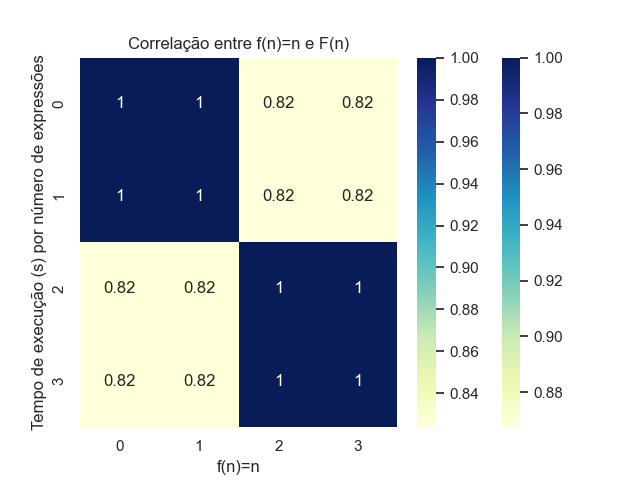
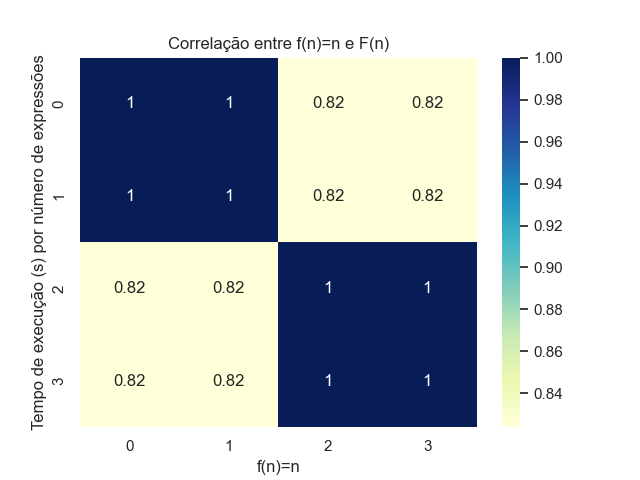
Added runtime analysis and updated README

diff --git a/runtime_analysis/runtime_data_analysis.py b/runtime_analysis/runtime_data_analysis.py
@@ -1,3 +1,4 @@
+from re import S
 import pandas as pd
 import seaborn as sns
 import numpy as np
@@ -82,6 +83,8 @@ sns_plot.set_ylabel("Tempo médio de execução (s)")
 sns_plot.legend(title="Número de expressões")
 # save plot
 sns_plot.figure.savefig("avg_runtime_n_vars_log_scatter.png")
+
+sns_plot.clear()
 
 # plot correlation coefficient between f(x) and F(x)
 sns_plot = sns.heatmap(corr, annot=True, cmap="YlGnBu")

diff --git a/Rascunho.md b/Rascunho.md
@@ -6,11 +6,11 @@
 
 A lógica proposicional descreve comportamentos lógicos pelas regras da álgebra booleana, analisar, simular e otimizar sentenças lógicas significa poder simular essas operações a nível lógico para os circuitos que implementam o comportamento lógico dessas expressões.
 Nesse trabalho foram implementados e integrados analisadores léxico, sintático e semântico bem como um otimizador de expressões lógicas num programa de interface de linha de comando, foi também analisada a complexidade de tempo do método de análise semântica das expressões baseada em seu tempo médio de execução em relação a entradas controladas geradas de forma procedural.
-Obteve-se como resultado um programa capaz de receber expressões como entrada que são analisadas e otimizadas, além de um relatório de erros (se houverem) e a tabela-verdade da expressão. Concluiu-se também que a complexidade de tempo do algoritmo de análise semântica implementado baseado em árvore sintática abstrata é _O(2^n)_ sendo n o número de variáveis da expressão a ser analisada. 
+Obteve-se como resultado um programa capaz de receber expressões como entrada que são analisadas e otimizadas, além de um relatório de erros (se houverem) e a tabela verdade da expressão. Concluiu-se também que a complexidade de tempo do algoritmo de análise semântica implementado baseado em árvore sintática abstrata é _O(2^n)_ sendo n o número de variáveis da expressão a ser analisada.
 
 ## Introdução
 
-Lógica proposicional é uma forma de descrever comportamentos lógicos obedecendo a álgebra booleana e está presente nos dias de hoje em quase todo aparelho eletrônico, ser capaz de analisar, simular e otimizar sentenças lógicas significa ser capaz de realizar esses mesmos processos nos circuitos digitais que implementam a lógica da expressão. 
+Lógica proposicional é uma forma de descrever comportamentos lógicos obedecendo à álgebra booleana e está presente nos dias de hoje em quase todo aparelho eletrônico, ser capaz de analisar, simular e otimizar sentenças lógicas significa ser capaz de realizar esses mesmos processos nos circuitos digitais que implementam a lógica da expressão. 
 Para o desenvolvimento desses processos foram implementadas as estruturas de máquina de estados, pilha, fila, e árvore sintática abstrata, além de uma interface de linha de comando para a análise de expressões na linguagem de programação Python.
 Para a análise da complexidade de tempo foram escritos scripts Python para geração de casos de teste e monitoramento do tempo de execução em múltiplos experimentos, além de scripts para plotagem de gráficos e computação de correlações com funções assintóticas.
 
@@ -18,7 +18,7 @@ Para a análise da complexidade de tempo foram escritos scripts Python para gera
 
 A álgebra booleana é um sistema algébrico que busca descrever problemas lógicos a partir de dois possíveis valores: verdadeiro ou falso, e três operações fundamentais, duas binárias (que operam com 2 valores): disjunção (_and_) e conjunção (_or_), e uma unária: negação (_not_), este conjunto de regras é a fundação da lógica proposicional, que é aplicada para definir o comportamento lógico de um conjunto de entradas.
 
-Uma expressão lógica é um conjunto de conectivos (operações) e literais (variáveis) que seja válido na álgebra booleana e que possua um valor-verdade associado, uma expressão pode ser dividida em subconjuntos que respeitam a precedência de operações de seus conectivos, todos os subconjuntos possuem um valor-verdade associado, o componente elementar de uma expressão lógica é o literal que não possui conectivos. Valor-verdade é a valoração binária (verdadeiro ou falso) que uma expressão lógica apresenta, o conjunto de todos os valores-verdade de uma expressão lógica é chamada tabela verdade.
+Uma expressão lógica é um conjunto de conectivos (operações) e literais (variáveis) que seja válido na álgebra booleana e que possua um valor verdade associado, uma expressão pode ser dividida em subconjuntos que respeitam a precedência de operações de seus conectivos, todos os subconjuntos possuem um valor verdade associado, o componente elementar de uma expressão lógica é o literal que não possui conectivos. Valor verdade é a valoração binária (verdadeiro ou falso) que uma expressão lógica apresenta, o conjunto de todos os valores verdade de uma expressão lógica é chamada tabela verdade.
 
 | A | B | ~A | ~B | A ∧ B | A ∨ B |
 |:-:|:-:|:-:|:-:|:-:|:-:|
@@ -29,25 +29,25 @@ Uma expressão lógica é um conjunto de conectivos (operações) e literais (va
 
 #### Desenvolvimento e integração do analisador
 
-Para a implementação do processo de análise de expressões lógicas, que consiste de três etapas, foi escrito um programa na linguagem de programação Python responsável por interfacear a entrada das proposições com o analisador, na analise léxica uma sequência de caracteres representando a expressão é consumida por uma máquina de estados que descreve as características léxicas da linguagem proposta para a representação das sentenças lógicas, para este fim, foi realizada a implementaçao máquina de estados descrita em [LEXF: Um Analisador Lexical Eficiente e Multipropósito](https://eventos.utfpr.edu.br//sicite/sicite2020/paper/view/7353) que tem como resultado a _tokenização_ da expressão. O processo de tokenização trata de atribuir um identificador (_token_) a cada elemento da expressão que esteja de acordo com as regras léxicas, cada identificador representa um tipo de operando ou operações, nesta implementação o _lexicon_ (conjunto de _tokens_ possíveis) é: _PAR_ (parêntese), _NEG_ (negação), _BIN_ (valor binário), _VAR_ (variável), _DISJ_ (disjunção), _CONJ_ (conjunção), _COND_ (condicional), _BICON_ (bicondicional).
+Para a implementação do processo de análise de expressões lógicas, que consiste de três etapas, foi escrito um programa na linguagem de programação Python responsável por interfacear a entrada das proposições com o analisador, na análise léxica uma sequência de caracteres representando a expressão é consumida por uma máquina de estados que descreve as características léxicas da linguagem proposta para a representação das sentenças lógicas, para este fim, foi realizada a implementação da máquina de estados descrita em [LEXF: Um Analisador Lexical Eficiente e Multipropósito](https://eventos.utfpr.edu.br//sicite/sicite2020/paper/view/7353) que tem como resultado a _tokenização_ da expressão. O processo de tokenização trata de atribuir um identificador (_token_) a cada elemento da expressão que esteja de acordo com as regras léxicas, cada identificador representa um tipo de operando ou operação, nesta implementação o _lexicon_ (conjunto de _tokens_ possíveis) é: _PAR_ (parêntese), _NEG_ (negação), _BIN_ (valor binário), _VAR_ (variável), _DISJ_ (disjunção), _CONJ_ (conjunção), _COND_ (condicional), _BICON_ (bicondicional).
 
 ![Autômato Base](images/automato_base.png)
 
-Na etapa seguinte é analisada a estrutura sintática da expressão, utilizando-se do algoritmo _shunting yard_ para a verificação da completude da expressão e de suas subdivisões e converter a notação in-fixa (convencional) em notação polonesa reversa de forma a respeitar precedência de operações da álgebra de _Boole_. _Shunting yard_ é um método criado por Edsger Dijkstra para a análise de expressões lógico-matemáticas em notação in-fixa que pode gerar uma cadeia de caracteres de notação pós-fixa (notação polonesa reversa), onde os operadores sucedem seus operandos e tem como vantagem o fato de não necessitar de parênteses para expressar a precedência de operações, facilitando a computação das operações atômicas, o algoritmo também é capaz de gerar uma árvore sintática abstrata, uma estrutura de árvore utilizada para representar a expressão dividindo-a em menores operações até que o nó represente uma variável ou valor binário, ao mesmo passo que geramos a notação pós-fixa verificamos se as operações entre os elementos são válidas, checando os tokens de cada sub-expressão, nesse momento seria possível a valoração da operação, unindo análise sintática e semântica no mesmo processo, no entanto, optou-se, por motivos didáticos, a separação explícita destes processos.
+Na etapa seguinte é analisada a estrutura sintática da expressão, utilizando-se do algoritmo _shunting yard_ para a verificação da completude da expressão e de suas subdivisões e para converter a notação in-fixa (convencional) em notação polonesa reversa, de forma a respeitar precedência de operações da álgebra de _Boole_. _Shunting yard_ é um método criado por Edsger Dijkstra para a análise de expressões lógico-matemáticas em notação in-fixa que pode gerar uma cadeia de caracteres de notação pós-fixa (notação polonesa reversa), onde os operadores sucedem seus operandos e tem como vantagem o fato de não necessitar de parênteses para expressar a precedência de operações, facilitando a computação das operações atômicas, o algoritmo também é capaz de gerar uma árvore sintática abstrata, uma estrutura de árvore utilizada para representar a expressão dividindo-a em menores operações até que o nó represente uma variável ou valor binário, ao mesmo passo que geramos a notação pós-fixa verificamos se as operações entre os elementos são válidas, checando os _tokens_ de cada expressão, nesse momento seria possível a valoração da operação, unindo análise sintática e semântica no mesmo processo, no entanto, optou-se, por motivos didáticos, a separação explícita destes processos.
 
 ![Notação polonesa reversa](images/npr.png)
 
- Na última etapa da análise é realizada a valoração de cada um de seus literais numa implementação  recursiva de uma árvore sintática abstrata, construída de forma que os nós-folha representem os componentes elementares da expressão, cada nó intermediário represente a valoração dos conectivos e o nó raiz represente o valor-verdade da expressão completa, a valoração ocorre de baixo para cima, ou seja, os primeiros nós a serem valorados são os nós-folha, precedidos por seus conectivos de forma recursiva até a valoração do nó raiz. Essa implementação é obtida por meio de polimorfismo, todas as classes representam um token, que por sua vez, representa uma operação ou operando, todas as classes derivam de uma classe virtual Expression, que representa o maior nível de abstração desses elementos, de Expression derivam-se as classes Operand e Operation, de Operand, derivam-se as classes Binary e Variable, que por sua vez, carregam valores associados. De Operation derivam-se UnaryOperation e BinaryOperation, De Unary Operation deriva-se apenas Not, que carrega a função de negação na valoração da árvore, De BinaryOperation derivam-se as classes correspondentes a seus atributos lógicos: And, Or, Conditional e Binconditional. Como interface para essas classes foi escrita a classe SemanticAnalysis, responsável por instanciar corretamente a estrutra da árvore de acordo com a entrada e facilitar a saída dos dados de forma compreensível, em forma de tabela.
+ Na última etapa da análise é realizada a valoração de cada um de seus literais numa implementação  recursiva de uma árvore sintática abstrata, construída de forma com que os nós folha representem os componentes elementares da expressão, cada nó intermediário represente a valoração dos conectivos e o nó raiz represente o valor verdade da expressão completa, a valoração ocorre de baixo para cima, ou seja, os primeiros nós a serem valorados são os nós folha, precedidos por seus conectivos de forma recursiva até a valoração do nó raiz. Essa implementação é obtida por meio de polimorfismo, todas as classes representam um _token_, que por sua vez, representa uma operação ou operando, todas as classes derivam de uma classe virtual Expression, que representa o maior nível de abstração desses elementos, de Expression derivam-se as classes Operand e Operation, de Operand, derivam-se as classes Binary e Variable, que por sua vez, carregam valores associados. De Operation derivam-se UnaryOperation e BinaryOperation, de Unary Operation deriva-se apenas Not, que carrega a função de negação na valoração da árvore, de BinaryOperation derivam-se as classes correspondentes a seus atributos lógicos: And, Or, Conditional e Biconditional. Como interface para essas classes, foi escrita a classe SemanticAnalysis, responsável por instanciar corretamente a estrutura da árvore de acordo com a entrada e facilitar a saída dos dados de modo compreensível, em forma de tabela.
 
 ![Diagrama de classes](images/diagrama_de_classes.png)
 
-Como resultado dessa análise obtem-se os _tokens_ léxicos estruturados em notação polonesa reversa e por fim a tabela verdade da expressão completa, com a qual podemos verificar os termos de satisfabilidade da expressão. É possível também valorar a tabela verdade de qualquer expressão intermediária a partir da valoração da sub-árvore que a representa.
+Como resultado dessa análise obtêm-se os _tokens_ léxicos estruturados em notação polonesa reversa e por fim a tabela verdade da expressão completa, com a qual podemos verificar os termos de satisfabilidade da expressão. É possível também valorar a tabela verdade de qualquer expressão intermediária a partir da valoração da subárvore que a representa.
 
 ![Árvore sintática abstrata](images/AST.png)
 
 #### Interface de linha de comando
 
-Como parte da integração dos analisadores, foi criado o programa principal _src/main.py_ que implementa uma interface de linha de comando, recebendo como entrada uma expressão a ser analisada ou o caminho de um arquivo com uma expressão por linha, além de um argumento para a verbosidade da saída das análises, o programa realiza as análise e exibe mensagens de saída das etapas de análise.
+Como parte da integração dos analisadores, foi criado o programa principal _src/main.py_ que implementa uma interface de linha de comando, recebendo como entrada uma expressão a ser analisada, ou o caminho de um arquivo com uma expressão por linha, além de um argumento para a verbosidade da saída das análises, o programa realiza as análises e exibe mensagens de saída das etapas de análise.
 
 #### Integração com minimizador de expressões lógicas
 
@@ -55,9 +55,9 @@ Para afirmar que duas expressões lógicas quaisquer são equivalentes é necess
 
 #### Análise de desempenho
 
-Para a análise de desempenho foi escrito o _script_ Python _test_generator.py_, localizado na pasta _tests_ que gera strings válidas sintática e lexicograficamente na linguagem proposta para que sejam valoradas pela classe de análise semântica e para que o tempo de execução do programa seja registrado com entradas controladas. Neste procedimento de geração da cadeia de caracteres foram geradas letras de "a" até "p" para tokens de variável e uma escolha aleatória entre "/\\", "\\/", ">" e"=", de acordo com o lexicon, representando as operações, é importante ressaltar que parênteses foram excluídos dessas escolhas pois não representam uma operação em si, mas uma forma de explicitar a precedência a ser seguida. foram geradas entradas de 5 até 16 variáveis nomeadas e dispostas na expressão em ordem alfabética, cada expressão possui o número de variáveis - 1 operações e, em média, 50% da variáveis são negadas, para cada número de variáveis possível foram gerados 4 arquivos contendo de 1 até 1000 expressões com a razão de 10 vezes entre os arquivos.
+Para a análise de desempenho foi escrito o _script_ Python _test_generator.py_, localizado na pasta _tests_ que gera strings válidas sintática e lexicograficamente na linguagem proposta para que sejam valoradas pela classe de análise semântica e para que o tempo de execução do programa seja registrado com entradas controladas. Neste procedimento de geração da cadeia de caracteres foram geradas letras de "a" até "p" para tokens de variável e uma escolha aleatória entre "/\\", "\\/", ">" e"=", de acordo com o lexicon, representando as operações, é importante ressaltar que parênteses foram excluídos dessas escolhas pois não representam uma operação em si, mas uma forma de explicitar a precedência a ser seguida. foram geradas entradas de 5 até 16 variáveis nomeadas e dispostas na expressão em ordem alfabética, cada expressão possui o número de variáveis - 1 operações e, em média, 50% das variáveis são negadas, para cada número de variáveis possível foram gerados 4 arquivos contendo de 1 até 1000 expressões com a razão de 10 vezes entre os arquivos.
 
-Foi escrito também outro _script_ para a leitura e processamento e monitoramento do tempo de execução do analisador semântico nessas entradas, esse _script_ gera 10 amostras de tempo por arquivo e salva o tempo médio de execução em um arquivo _.csv_ contendo também o número de linhas e de variáveis dos respectivos arquivos.
+Foi escrito também outro _script_ para a leitura e processamento e monitoramento do tempo de execução do analisador semântico nessas entradas, esse _script_ gera 10 amostras de tempo por arquivo e salva o tempo médio de execução em um arquivo _.csv_ contendo também o número de linhas e de variáveis dos respectivos experimentos.
 
 ## Resultados e Discussões
 
@@ -73,11 +73,11 @@ Podemos, portanto, assumir o conjunto de dados onde o número de expressões é 
 
 ![](runtime_analysis/avg_runtime_n_vars_2_x_log.png)
 
-O gráfico acima explicita o mesmo comportamento de crescimento em abas as funções e o mapa de calor abaixo evidencia a correlação de ambas as funções. Ao calcular o coeficiente de correlação da função de tempo de execução com _f(x) = 2^x_ obtemos o valor médio de 0.9362848072499903.
+O gráfico acima explicita o mesmo comportamento de crescimento em abas as funções e o mapa de calor abaixo evidencia a correlação das mesmas. Ao calcular o coeficiente de correlação da função de tempo de execução com _f(x) = 2^x_ obtemos o valor médio de 0.9362848072499903.
 
 ![](runtime_analysis/correlation_runtime_by_n_vars.png)
 
-A notação Big-O é uma notação matemática que descreve o comportamento limitante superior de uma função e pode ser descrito como uma função que se aproxime do limite superior da função a ser analisada. De acordo com a análise aqui apresentada, _f(x)=2^x_ pode ser assumida como função assíntótica da função de tempo de execução por número de variáveis, podemos então afirmar que a complexidade de tempo dessa implementação pode ser aproximada pela função assintótica _O(N) = 2^N_.
+A notação Big-O é uma notação matemática que descreve o comportamento limitante superior de uma função e pode ser descrito como uma função que se aproxime do limite superior da função a ser analisada. De acordo com a análise aqui apresentada, _f(x)=2^x_ pode ser assumida como função assintótica da função de tempo de execução por número de variáveis, podemos então afirmar que a complexidade de tempo dessa implementação pode ser aproximada pela função assintótica _O(N) = 2^N_.
 
 ![](runtime_analysis/avg_runtime_n_lines.png)
 
@@ -93,7 +93,7 @@ Podemos portanto afirmar que complexidade de tempo dessa implementação pode se
 
 ## Conclusão
 
-Nesse trabalho foram integrados analisadores léxico, sintático e semântico e o algoritmo de otimização de expressões de Quine-McCluskey  em uma interface de linha de comando, foi também realizada a análise assintótica da complexidade de tempo do analisador semântico implementado por meio de análise exploratória da função do tempo de execução do programa pelo tamanho de suas entradas, em que se concluiu que o programa tem complexidade descrita por _O(N) = 2^N_ em que _N_ é o número de variáveis e _O(M) = M_ em que _M_ é o número de expressões de mesmo número de operações e de variáveis.
+Nesse trabalho foram integrados analisadores léxico, sintático e semântico e o algoritmo de otimização de expressões de Quine-McCluskey em uma interface de linha de comando, foi também realizada a análise assintótica da complexidade de tempo do analisador semântico implementado por meio de análise exploratória da função do tempo de execução do programa pelo tamanho de suas entradas, em que se concluiu que o programa tem complexidade descrita por _O(N) = 2^N_ em que _N_ é o número de variáveis e _O(M) = M_ em que _M_ é o número de expressões de mesmo número de operações e de variáveis.
 
 ## Agradecimentos
 
